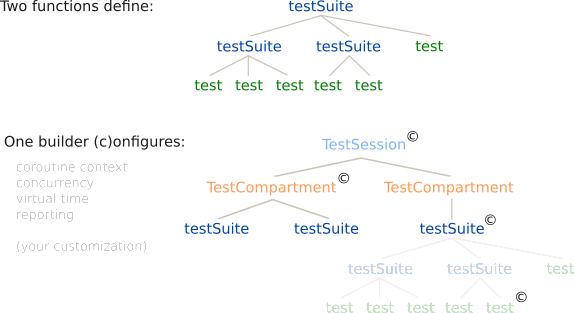
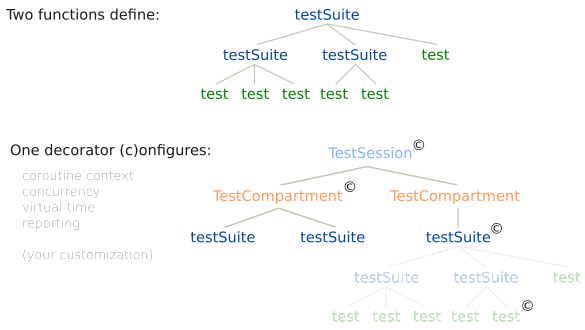
Documentation: Describe TestConfig as a decorator chain, not builder

diff --git a/examples/general/src/commonTest/kotlin/com/example/Concurrency.kt b/examples/general/src/commonTest/kotlin/com/example/Concurrency.kt
@@ -51,7 +51,7 @@ val Concurrency by testSuite(testConfig = TestConfig.testScope(isEnabled = false
     }
 }
 
-// Define your own test series builder.
+// Define your own test series.
 private fun TestSuiteScope.testSeries() {
     for (testId in 1..10) {
         test("test $testId") {

diff --git a/documentation/website/docs/how-to/migrating-from-junit.md b/documentation/website/docs/how-to/migrating-from-junit.md
@@ -173,7 +173,7 @@ To run tests in a chosen order, JUnit 5+ requires interventions (like an `@Order
 
 JUnit 5+ extensions are reusable classes whose methods can run code before, after, or around tests.
 
-TestBalloon's [TestConfig builder](../api/testBalloon-framework-core/de.infix.testBalloon.framework.core/-test-config/index.html) provides 4 functional mechanisms which achieve the same:
+TestBalloon's [TestConfig decorator chain](../api/testBalloon-framework-core/de.infix.testBalloon.framework.core/-test-config/index.html) provides 4 functional mechanisms which achieve the same:
 
 * two universal functions: `aroundEach()` and `traversal()`,
 * two convenience variants: `aroundAll()` and `aroundEachTest()`.
@@ -194,4 +194,4 @@ TestBalloon's [TestConfig builder](../api/testBalloon-framework-core/de.infix.te
 
 **Nested** and **dynamic tests** are covered as TestBalloon's `testSuite` functions nest and everything is dynamic by nature.
 
-Most other JUnit 5+ features like **disabling tests**, **conditional execution**, **tagging**, **repeated tests** have a natural replacement using plain Kotlin, TestBalloon's [TestConfig builder](../api/testBalloon-framework-core/de.infix.testBalloon.framework.core/-test-config/index.html), and environment variables [(see this example)](effective-testing.md#conditional-tag-based-testing).
+Most other JUnit 5+ features like **disabling tests**, **conditional execution**, **tagging**, **repeated tests** have a natural replacement using plain Kotlin, TestBalloon's [TestConfig decorator chain](../api/testBalloon-framework-core/de.infix.testBalloon.framework.core/-test-config/index.html), and environment variables [(see this example)](effective-testing.md#conditional-tag-based-testing).

diff --git a/documentation/website/docs/getting-started/configuration.md b/documentation/website/docs/getting-started/configuration.md
@@ -4,7 +4,7 @@ TestBalloon provides two mechanisms to adapt the testing process to your needs v
 
 1. `TestSuite` extensions to register custom tests or test suites.
 
-2. `TestConfig`, a uniform builder API to configure test elements at any level:
+2. `TestConfig`, a uniform decorator chain API to configure test elements at any level:
 
     === "Single test"
 
@@ -56,7 +56,7 @@ Using the same technique, you can create custom test suites, or test suite serie
 
 ## `TestConfig`
 
-Use the `testConfig` parameter in conjunction with the `TestConfig` builder to configure any part of the test element hierarchy – your tests, test suites, up to global settings.
+Use the `testConfig` parameter in conjunction with the `TestConfig` decorator chain to configure any part of the test element hierarchy – your tests, test suites, up to global settings.
 
 ```kotlin
 --8<-- "Configuration.kt:concurrency"

diff --git a/documentation/website/docs/how-to/migrating-from-kotest.md b/documentation/website/docs/how-to/migrating-from-kotest.md
@@ -120,7 +120,7 @@ Kotest has 44 mechanisms to track and influence tests:
 * 14 "simple extensions", and
 * 16 "advanced extensions".
 
-TestBalloon's [TestConfig builder](../api/testBalloon-framework-core/de.infix.testBalloon.framework.core/-test-config/index.html) provides 4 functional mechanisms which achieve the same:
+TestBalloon's [TestConfig decorator chain](../api/testBalloon-framework-core/de.infix.testBalloon.framework.core/-test-config/index.html) provides 4 functional mechanisms which achieve the same:
 
 * two universal functions: `aroundEach()` and `traversal()`,
 * two convenience variants: `aroundAll()` and `aroundEachTest()`.
